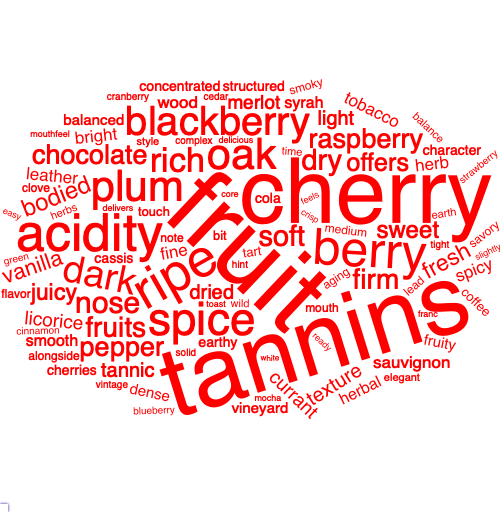
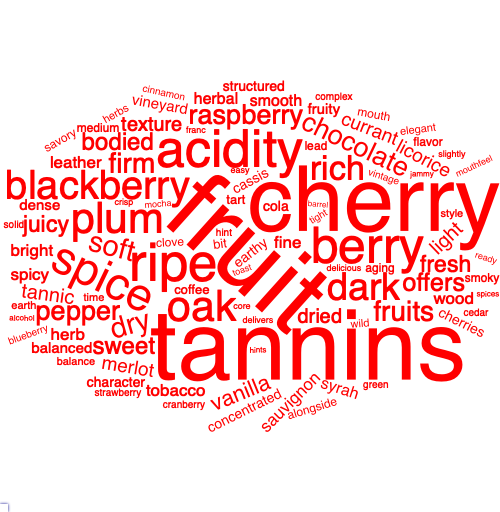
add wordcloud screenshot + update uninformative words

diff --git a/word_cloud.html b/word_cloud.html
@@ -358,20 +358,40 @@ div.tocify {
     </div>
     <div id="navbar" class="navbar-collapse collapse">
       <ul class="nav navbar-nav">
-        
-      </ul>
-      <ul class="nav navbar-nav navbar-right">
         <li>
   <a href="about.html">About Us</a>
 </li>
-<li>
-  <a href="plotly.html">Exploratory Graphs</a>
+<li class="dropdown">
+  <a href="#" class="dropdown-toggle" data-toggle="dropdown" role="button" aria-expanded="false">
+    Exploratory Analysis
+     
+    <span class="caret"></span>
+  </a>
+  <ul class="dropdown-menu" role="menu">
+    <li>
+      <a href="plotly.html">Exploratory Graphs</a>
+    </li>
+    <li>
+      <a href="word_cloud.html">Word Cloud</a>
+    </li>
+  </ul>
 </li>
 <li>
   <a href="regression.html">Regression Analysis</a>
 </li>
 <li>
   <a href="mapping.html">Maps</a>
+</li>
+      </ul>
+      <ul class="nav navbar-nav navbar-right">
+        <li>
+  <a href="report.html">Project Report</a>
+</li>
+<li>
+  <a href="https://www.youtube.com/watch?v=W-cQ8M_y7MY&amp;feature=youtu.be&amp;hd=1">
+    <span class="fa fa-youtube fa-lg"></span>
+     
+  </a>
 </li>
 <li>
   <a href="https://github.com/Veraverax/p8105_final/">
@@ -401,119 +421,21 @@ div.tocify {
 </div>
 
 
-<pre class="r"><code>library(tidyverse)</code></pre>
-<pre><code>## ── Attaching packages ─────────────────────────────────────────────────────────────────── tidyverse 1.3.0 ──</code></pre>
-<pre><code>## ✓ ggplot2 3.3.2     ✓ purrr   0.3.4
-## ✓ tibble  3.0.3     ✓ dplyr   1.0.2
-## ✓ tidyr   1.1.2     ✓ stringr 1.4.0
-## ✓ readr   1.3.1     ✓ forcats 0.5.0</code></pre>
-<pre><code>## ── Conflicts ────────────────────────────────────────────────────────────────────── tidyverse_conflicts() ──
-## x dplyr::filter() masks stats::filter()
-## x dplyr::lag()    masks stats::lag()</code></pre>
-<pre class="r"><code>library(plotly)</code></pre>
-<pre><code>## 
-## Attaching package: &#39;plotly&#39;</code></pre>
-<pre><code>## The following object is masked from &#39;package:ggplot2&#39;:
-## 
-##     last_plot</code></pre>
-<pre><code>## The following object is masked from &#39;package:stats&#39;:
-## 
-##     filter</code></pre>
-<pre><code>## The following object is masked from &#39;package:graphics&#39;:
-## 
-##     layout</code></pre>
-<pre class="r"><code>library(tidytext)
+<pre class="r"><code>library(tidyverse)
+library(plotly)
+library(tidytext)
 library(RColorBrewer)
 library(tidytext)
 library(wordcloud2)
 library(knitr)
 library(webshot)</code></pre>
 <p>Read in tidy wine data and generate subsets for new world, old world, higher-rating (&gt;=90), and lower-rating (&lt;90) wines.</p>
-<pre class="r"><code>red_df =  read_csv(&quot;./wine_data/tidy/wine_red.csv&quot;)</code></pre>
-<pre><code>## Warning: Missing column names filled in: &#39;X1&#39; [1]</code></pre>
-<pre><code>## Parsed with column specification:
-## cols(
-##   X1 = col_double(),
-##   country = col_character(),
-##   description = col_character(),
-##   designation = col_character(),
-##   points = col_double(),
-##   price = col_double(),
-##   province = col_character(),
-##   region_1 = col_character(),
-##   taster_name = col_character(),
-##   title = col_character(),
-##   variety = col_character(),
-##   winery = col_character(),
-##   year = col_double(),
-##   new_world = col_logical(),
-##   old_world = col_logical(),
-##   type = col_character()
-## )</code></pre>
-<pre class="r"><code>white_df = read_csv(&quot;./wine_data/tidy/wine_white.csv&quot;)</code></pre>
-<pre><code>## Warning: Missing column names filled in: &#39;X1&#39; [1]</code></pre>
-<pre><code>## Parsed with column specification:
-## cols(
-##   X1 = col_double(),
-##   country = col_character(),
-##   description = col_character(),
-##   designation = col_character(),
-##   points = col_double(),
-##   price = col_double(),
-##   province = col_character(),
-##   region_1 = col_character(),
-##   taster_name = col_character(),
-##   title = col_character(),
-##   variety = col_character(),
-##   winery = col_character(),
-##   year = col_double(),
-##   new_world = col_logical(),
-##   old_world = col_logical(),
-##   type = col_character()
-## )</code></pre>
-<pre class="r"><code>rose_df = read_csv(&quot;./wine_data/tidy/wine_rose.csv&quot;)</code></pre>
-<pre><code>## Warning: Missing column names filled in: &#39;X1&#39; [1]</code></pre>
-<pre><code>## Parsed with column specification:
-## cols(
-##   X1 = col_double(),
-##   country = col_character(),
-##   description = col_character(),
-##   designation = col_character(),
-##   points = col_double(),
-##   price = col_double(),
-##   province = col_character(),
-##   region_1 = col_character(),
-##   taster_name = col_character(),
-##   title = col_character(),
-##   variety = col_character(),
-##   winery = col_character(),
-##   year = col_double(),
-##   new_world = col_logical(),
-##   old_world = col_logical(),
-##   type = col_character()
-## )</code></pre>
-<pre class="r"><code>sparkling_df = read_csv(&quot;./wine_data/tidy/wine_sparkling.csv&quot;)</code></pre>
-<pre><code>## Warning: Missing column names filled in: &#39;X1&#39; [1]</code></pre>
-<pre><code>## Parsed with column specification:
-## cols(
-##   X1 = col_double(),
-##   country = col_character(),
-##   description = col_character(),
-##   designation = col_character(),
-##   points = col_double(),
-##   price = col_double(),
-##   province = col_character(),
-##   region_1 = col_character(),
-##   taster_name = col_character(),
-##   title = col_character(),
-##   variety = col_character(),
-##   winery = col_character(),
-##   year = col_double(),
-##   new_world = col_logical(),
-##   old_world = col_logical(),
-##   type = col_character()
-## )</code></pre>
-<pre class="r"><code>new_red = red_df %&gt;% filter(new_world == TRUE)
+<pre class="r"><code>red_df =  read_csv(&quot;./wine_data/tidy/wine_red.csv&quot;)
+white_df = read_csv(&quot;./wine_data/tidy/wine_white.csv&quot;)
+rose_df = read_csv(&quot;./wine_data/tidy/wine_rose.csv&quot;)
+sparkling_df = read_csv(&quot;./wine_data/tidy/wine_sparkling.csv&quot;)
+
+new_red = red_df %&gt;% filter(new_world == TRUE)
 old_red = red_df %&gt;% filter(old_world == TRUE)
 new_white = white_df %&gt;% filter(new_world == TRUE)
 old_white = white_df %&gt;% filter(old_world == TRUE)
@@ -548,7 +470,7 @@ low_sparkling = sparkling_df %&gt;% filter(points &lt; 90)</code></pre>
     anti_join(wine_word, stop_words)
   
   # remove more uninformative words in our study
-  other_meaningless &lt;- data.frame(word = c(&quot;wine&quot;,&quot;drink&quot;,&quot;flavors&quot;,&quot;notes&quot;,&quot;finish&quot;, &quot;structure&quot;, &quot;blend&quot;, &quot;age&quot;,  &quot;palate&quot;, &quot;cabernet&quot;, &quot;pinot&quot;,&quot;noir&quot;, &quot;chardonnay&quot;, &quot;aromas&quot;, &quot;black&quot;, &quot;red&quot;, &quot;wine&quot;, &quot;rose&quot;, &quot;rosé&quot;, &quot;sparkling&quot;))
+  other_meaningless &lt;- data.frame(word = c(&quot;style&quot;, &quot;character&quot;, &quot;vineyard&quot;, &quot;wine&quot;,&quot;drink&quot;,&quot;flavors&quot;,&quot;notes&quot;,&quot;note&quot;, &quot;finish&quot;, &quot;structure&quot;, &quot;blend&quot;, &quot;touch&quot;, &quot;feels&quot;, &quot;nose&quot;, &quot;age&quot;,  &quot;palate&quot;, &quot;cabernet&quot;, &quot;pinot&quot;,&quot;noir&quot;, &quot;chardonnay&quot;, &quot;sauvignon&quot;, &quot;aromas&quot;, &quot;black&quot;, &quot;red&quot;, &quot;white&quot;, &quot;rose&quot;, &quot;rosé&quot;, &quot;sparkling&quot;))
   wine_word = 
     wine_word %&gt;% 
     anti_join(other_meaningless, by = &quot;word&quot;)
@@ -589,7 +511,7 @@ low_sparkling = sparkling_df %&gt;% filter(points &lt; 90)</code></pre>
     anti_join(wine_word, stop_words)
   
   # remove more uninformative words in our study
-  other_meaningless &lt;- data.frame(word = c(&quot;wine&quot;,&quot;drink&quot;,&quot;flavors&quot;,&quot;notes&quot;,&quot;finish&quot;, &quot;structure&quot;, &quot;blend&quot;, &quot;age&quot;,  &quot;palate&quot;, &quot;cabernet&quot;, &quot;pinot&quot;, &quot;noir&quot;, &quot;chardonnay&quot;, &quot;aromas&quot;, &quot;black&quot;, &quot;red&quot;, &quot;wine&quot;, &quot;rose&quot;, &quot;rosé&quot;, &quot;sparkling&quot;))
+  other_meaningless &lt;- data.frame(word = c(&quot;style&quot;, &quot;character&quot;, &quot;vineyard&quot;, &quot;wine&quot;,&quot;drink&quot;,&quot;flavors&quot;,&quot;notes&quot;,&quot;note&quot;, &quot;finish&quot;, &quot;structure&quot;, &quot;blend&quot;, &quot;touch&quot;, &quot;feels&quot;, &quot;nose&quot;, &quot;age&quot;,  &quot;palate&quot;, &quot;cabernet&quot;, &quot;pinot&quot;,&quot;noir&quot;, &quot;chardonnay&quot;, &quot;sauvignon&quot;, &quot;aromas&quot;, &quot;black&quot;, &quot;red&quot;, &quot;white&quot;, &quot;rose&quot;, &quot;rosé&quot;, &quot;sparkling&quot;))
   wine_word = 
     wine_word %&gt;% 
     anti_join(other_meaningless, by = &quot;word&quot;)
@@ -606,13 +528,11 @@ low_sparkling = sparkling_df %&gt;% filter(points &lt; 90)</code></pre>
 
 #par(mfrow = c(3,2))
 wine_word_cloud(red_df, &quot;red&quot;, &quot;white&quot;) </code></pre>
-<pre><code>## Joining, by = &quot;word&quot;</code></pre>
-<div id="htmlwidget-36988cecfca1336860f3" style="width:672px;height:480px;" class="wordcloud2 html-widget"></div>
-<script type="application/json" data-for="htmlwidget-36988cecfca1336860f3">{"x":{"word":["fruit","tannins","cherry","ripe","acidity","berry","spice","plum","oak","blackberry","dark","rich","nose","soft","dry","firm","fruits","pepper","raspberry","chocolate","offers","sweet","bodied","fresh","juicy","vanilla","texture","dried","light","tannic","currant","merlot","licorice","bright","sauvignon","leather","spicy","herb","tobacco","fine","wood","syrah","herbal","smooth","dense","fruity","vineyard","balanced","structured","earthy","cassis","character","concentrated","cola","cherries","coffee","touch","tart","bit","medium","mouth","aging","clove","alongside","smoky","savory","lead","flavor","note","balance","herbs","time","style","earth","wild","elegant","hint","vintage","green","complex","cranberry","cinnamon","solid","strawberry","tight","cedar","blueberry","delicious","toast","delivers","mouthfeel","mocha","crisp","franc","core","feels","ready","slightly","easy","white"],"freq":[30430,28460,26415,15588,15207,14536,13550,12561,12496,11631,11098,9970,8846,8523,8438,8041,8018,8007,7992,7890,7316,7048,7030,6737,6688,6412,5942,5934,5728,5718,5652,5633,5560,5021,4901,4884,4880,4870,4863,4845,4844,4694,4664,4628,4484,4429,4304,4273,4143,4117,4113,4062,4059,4000,3967,3902,3838,3762,3707,3615,3601,3586,3565,3563,3440,3421,3395,3374,3355,3285,3279,3275,3269,3220,3206,3074,3057,3034,3030,3015,2981,2947,2946,2891,2845,2837,2775,2761,2734,2726,2714,2710,2709,2694,2631,2578,2564,2539,2517,2464],"fontFamily":"Segoe UI","fontWeight":"bold","color":"red","minSize":0,"weightFactor":0.00343082484390404,"backgroundColor":"white","gridSize":0,"minRotation":-0.785398163397448,"maxRotation":0.785398163397448,"shuffle":true,"rotateRatio":0.4,"shape":"circle","ellipticity":0.65,"figBase64":null,"hover":null},"evals":[],"jsHooks":[]}</script>
+<div id="htmlwidget-67bbcf32ebb02c73014a" style="width:672px;height:480px;" class="wordcloud2 html-widget"></div>
+<script type="application/json" data-for="htmlwidget-67bbcf32ebb02c73014a">{"x":{"word":["fruit","tannins","cherry","ripe","acidity","berry","spice","plum","oak","blackberry","dark","rich","soft","dry","firm","fruits","pepper","raspberry","chocolate","offers","sweet","bodied","fresh","juicy","vanilla","texture","dried","light","tannic","currant","merlot","licorice","bright","leather","spicy","herb","tobacco","fine","wood","syrah","herbal","smooth","dense","fruity","balanced","structured","earthy","cassis","concentrated","cola","cherries","coffee","tart","bit","medium","mouth","aging","clove","alongside","smoky","savory","lead","flavor","balance","herbs","time","earth","wild","elegant","hint","vintage","green","complex","cranberry","cinnamon","solid","strawberry","tight","cedar","blueberry","delicious","toast","delivers","mouthfeel","mocha","crisp","franc","core","ready","slightly","easy","barrel","jammy","spices","alcohol","hints","silky","anise","bottling","malbec"],"freq":[30430,28460,26415,15588,15207,14536,13550,12561,12496,11631,11098,9970,8523,8438,8041,8018,8007,7992,7890,7316,7048,7030,6737,6688,6412,5942,5934,5728,5718,5652,5633,5560,5021,4884,4880,4870,4863,4845,4844,4694,4664,4628,4484,4429,4273,4143,4117,4113,4059,4000,3967,3902,3762,3707,3615,3601,3586,3565,3563,3440,3421,3395,3374,3285,3279,3275,3220,3206,3074,3057,3034,3030,3015,2981,2947,2946,2891,2845,2837,2775,2761,2734,2726,2714,2710,2709,2694,2631,2564,2539,2517,2463,2450,2444,2442,2405,2377,2367,2336,2300],"fontFamily":"Segoe UI","fontWeight":"bold","color":"red","minSize":0,"weightFactor":0.00343082484390404,"backgroundColor":"white","gridSize":0,"minRotation":-0.785398163397448,"maxRotation":0.785398163397448,"shuffle":true,"rotateRatio":0.4,"shape":"circle","ellipticity":0.65,"figBase64":null,"hover":null},"evals":[],"jsHooks":[]}</script>
 <pre class="r"><code>wine_word_cloud(white_df, &quot;orange&quot;, &quot;white&quot;)</code></pre>
-<pre><code>## Joining, by = &quot;word&quot;</code></pre>
-<div id="htmlwidget-3bcae8ca18d6535f14cb" style="width:672px;height:480px;" class="wordcloud2 html-widget"></div>
-<script type="application/json" data-for="htmlwidget-3bcae8ca18d6535f14cb">{"x":{"word":["acidity","fruit","apple","ripe","citrus","lemon","white","fresh","crisp","pear","peach","dry","nose","green","rich","lime","texture","sweet","light","oak","bright","spice","fruits","vanilla","pineapple","tropical","yellow","fruity","grapefruit","bodied","melon","creamy","orange","honey","mineral","soft","touch","clean","offers","character","apricot","balanced","stone","blanc","riesling","style","medium","refreshing","toast","freshness","minerality","sauvignon","juicy","zest","tart","hints","flavor","hint","tangerine","concentrated","zesty","floral","easy","mouth","richness","lively","slightly","wood","ready","balance","spicy","delicious","tangy","tight","note","vineyard","smooth","apples","rounded","bit","fine","intense","finishes","aging","edge","textured","mouthfeel","simple","attractive","round","almond","sweetness","peel","complex","brisk","lightly","feel","cut","buttered","weight"],"freq":[12881,12531,9749,7975,7942,7384,7063,6895,6689,6477,6333,5937,5345,5150,5136,4731,4483,4435,4400,3961,3492,3405,3320,3293,3240,3178,3149,3145,3113,3111,3104,3087,3039,3035,3023,3016,3010,2958,2932,2818,2775,2747,2419,2418,2371,2344,2294,2226,2212,2093,2075,2035,1865,1858,1830,1828,1743,1724,1716,1712,1706,1698,1665,1665,1644,1637,1635,1601,1600,1599,1547,1546,1519,1505,1496,1485,1484,1432,1389,1388,1373,1303,1288,1281,1257,1257,1255,1250,1243,1231,1212,1201,1182,1170,1162,1157,1146,1124,1122,1121],"fontFamily":"Segoe UI","fontWeight":"bold","color":"orange","minSize":0,"weightFactor":0.00810496079496933,"backgroundColor":"white","gridSize":0,"minRotation":-0.785398163397448,"maxRotation":0.785398163397448,"shuffle":true,"rotateRatio":0.4,"shape":"circle","ellipticity":0.65,"figBase64":null,"hover":null},"evals":[],"jsHooks":[]}</script>
+<div id="htmlwidget-ca14832a65369c849f01" style="width:672px;height:480px;" class="wordcloud2 html-widget"></div>
+<script type="application/json" data-for="htmlwidget-ca14832a65369c849f01">{"x":{"word":["acidity","fruit","apple","ripe","citrus","lemon","fresh","crisp","pear","peach","dry","green","rich","lime","texture","sweet","light","oak","bright","spice","fruits","vanilla","pineapple","tropical","yellow","fruity","grapefruit","bodied","melon","creamy","orange","honey","mineral","soft","clean","offers","apricot","balanced","stone","blanc","riesling","medium","refreshing","toast","freshness","minerality","juicy","zest","tart","hints","flavor","hint","tangerine","concentrated","zesty","floral","easy","mouth","richness","lively","slightly","wood","ready","balance","spicy","delicious","tangy","tight","smooth","apples","rounded","bit","fine","intense","finishes","aging","edge","textured","mouthfeel","simple","attractive","round","almond","sweetness","peel","complex","brisk","lightly","feel","cut","buttered","weight","dried","savory","delicate","elegant","body","nectarine","pepper","aromatic"],"freq":[12881,12531,9749,7975,7942,7384,6895,6689,6477,6333,5937,5150,5136,4731,4483,4435,4400,3961,3492,3405,3320,3293,3240,3178,3149,3145,3113,3111,3104,3087,3039,3035,3023,3016,2958,2932,2775,2747,2419,2418,2371,2294,2226,2212,2093,2075,1865,1858,1830,1828,1743,1724,1716,1712,1706,1698,1665,1665,1644,1637,1635,1601,1600,1599,1547,1546,1519,1505,1484,1432,1389,1388,1373,1303,1288,1281,1257,1257,1255,1250,1243,1231,1212,1201,1182,1170,1162,1157,1146,1124,1122,1121,1118,1109,1108,1101,1099,1098,1075,1062],"fontFamily":"Segoe UI","fontWeight":"bold","color":"orange","minSize":0,"weightFactor":0.00810496079496933,"backgroundColor":"white","gridSize":0,"minRotation":-0.785398163397448,"maxRotation":0.785398163397448,"shuffle":true,"rotateRatio":0.4,"shape":"circle","ellipticity":0.65,"figBase64":null,"hover":null},"evals":[],"jsHooks":[]}</script>
 <pre class="r"><code>#wine_word_cloud(rose_df, &quot;pink&quot;, &quot;white&quot;)
 #wine_word_cloud(sparkling_df, &quot;green&quot;, &quot;white&quot;)
 
